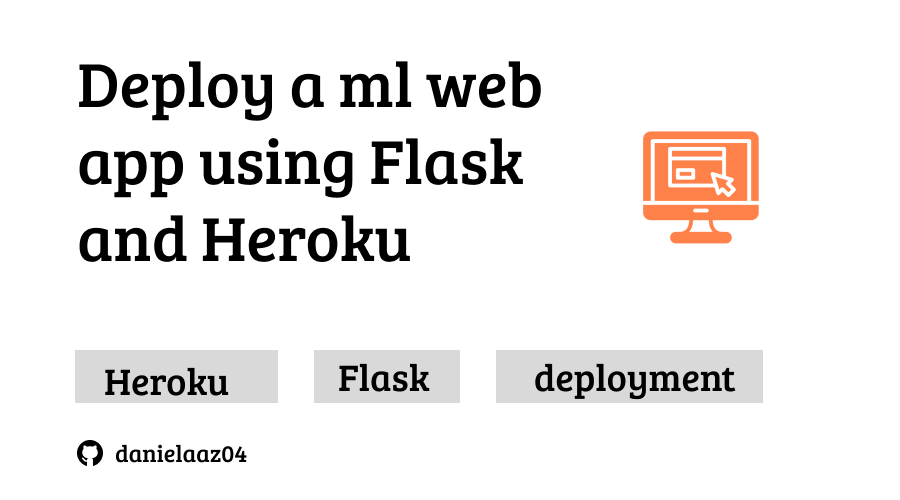
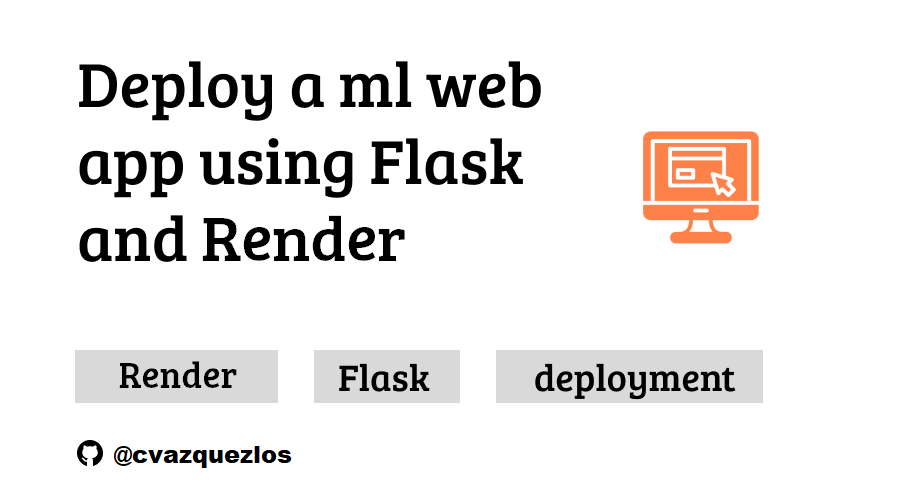
Project content review

Changed region(s): [[0.2178, 0.42, 0.4667, 0.54], [0.0933, 0.72, 0.28, 0.81], [0.1244, 0.87, 0.3422, 0.93]]

diff --git a/README.es.md b/README.es.md
@@ -1,38 +1,38 @@
 <!-- hide -->
-# Aplicación web de Machine Learning con Flask 
+# Integración de un modelo de ML en Render usando Flask - Guía paso a paso
 <!-- endhide -->
 
-- En este proyecto crearemos una aplicación web de Machine Learning. ¡Para hacer uno hermoso, eres libre de elegir el mejor modelo entre todos tus proyectos anteriores y aplicar tus nuevas habilidades de **Flask**!  
+- Buscar y comprender un dataset nuevo.
+- Modelar los datos utilizando un algoritmo de Machine Learning, Deep Learning o NLP.
+- Analizar los resultados y optimizar el modelo.
+- Integrarlo en Render usando una aplicación basada en Flask.
 
-> ¡No te olvides de ser siempre ingenioso!
+## 🌱  Cómo iniciar este proyecto
 
-## 🌱 Cómo iniciar este proyecto
+Esta vez no se hará Fork, tómate un tiempo para leer estas instrucciones:
 
-1. Crea un nuevo repositorio basado en el [proyecto de machine learning](https://github.com/4GeeksAcademy/machine-learning-python-template/generate) haciendo [clic aquí](https://github.com/4GeeksAcademy/machine-learning-python-template).
-2. Abre el repositorio creado recientemente en Gitpod usando la [extensión del botón de Gitpod](https://www.gitpod.io/docs/browser-extension/).
-
-3. Una vez que Gitpod VSCode haya terminado de abrir, comienza tu proyecto siguiendo las instrucciones a continuación.
+1. Crear un nuevo repositorio basado en el [proyecto de Machine Learing](https://github.com/4GeeksAcademy/machine-learning-python-template/generate) [haciendo clic aquí](https://github.com/4GeeksAcademy/machine-learning-python-template).
+2. Abre el repositorio creado recientemente en Codespace usando la [extensión del botón de Codespace](https://docs.github.com/en/codespaces/developing-in-codespaces/creating-a-codespace-for-a-repository#creating-a-codespace-for-a-repository).
+3. Una vez que el VSCode del Codespace haya terminado de abrirse, comienza tu proyecto siguiendo las instrucciones a continuación.
 
 ## 🚛 Cómo entregar este proyecto
 
-Una vez que hayas terminado de implementar tu aplicación de flask, asegúrate de hacerle commit tus cambios, hazle push a tu repositorio y ve a 4Geeks.com para cargar el enlace de la aplicación web.
+Una vez que hayas terminado de resolver los ejercicios, asegúrate de confirmar tus cambios, hazle "push" al fork de tu repositorio y ve a 4Geeks.com para subir el enlace del repositorio.
 
 ## 📝 Instrucciones
 
-**Paso 1:**
+### Paso 1: Busca un conjunto de datos
 
-Ahora que has aprendido cómo debería verse su estructura final, agrega los archivos necesarios a la carpeta del proyecto actual para tener la estructura correcta y edita los necesarios.
+Investiga en las diferentes fuentes en línea sobre distintos datasets que podrías utilizar para entrenar un modelo. Puedes utilizar alguna API pública, el repositorio UCI para Machine Learning o el apartado de Kaggle de [conjuntos de datos](https://www.kaggle.com/datasets), entre otras muchas fuentes. Recuerda buscar un conjunto de datos simple ya que este no es el proyecto final del curso.
 
-**Paso 2:**
+### Paso 2: Desarrolla un modelo
 
-Nuevamente, usa el archivo .pkl (modelo) de tu proyecto preferido y crea tu aplicación web de Machine Learning. Esta vez, muestra tus nuevas habilidades con Streamlit para crear una hermosa aplicación web.
+Una vez hayas encontrado tu conjunto de datos ideal, analízalo y entrena un modelo. Optimízalo si fuera necesario.
 
-**Step 2:**
+### Paso 3: Desarrolla una aplicación web usando Flask
 
-Utiliza el archivo .pkl (modelo) del proyecto de tu preferencia para crear una aplicación web de Machine Learning. Por ejemplo, si estás utilizando el modelo Titanic, deberías solicitar ciertas características del pasajero y predecir si ese pasajero sobreviviría o no.
+Con los conocimientos adquiridos en este módulo, desarrolla una interfaz para poder utilizar el modelo. Dale el estilo que más te convenga y anota los recursos externos que hayas utilizado para el desarrollo.
 
-**Paso 3:**
+### Paso 4: Integra el modelo y la aplicación en Render
 
-¡Implementa tu aplicación en Heroku!
-
-> Usa tu lección [Modelo deploy usando Streamlit y Heroku](https://github.com/4GeeksAcademy/machine-learning-content/blob/master/07-4d-ml_deploy/deploy-model-using-streamlit-and-heroku.md) para guiarte en cada paso.
+Crea un servicio gratuito en Render e integra el trabajo que has hecho para poder desplegar la aplicación web en línea. No olvides de incluir el enlace al servicio en tu repositorio.

diff --git a/README.md b/README.md
@@ -1,37 +1,38 @@
 <!-- hide -->
-# Machine learning web app using Flask
+# Integration of a ML model in Render using Flask - Step-by-step guide
 <!-- endhide -->
 
-- In this project, we will create a machine learning web application. To do a beautiful one, you are free to choose the best model between all your previous projects, and apply your new **Flask** skills!  
-
-> Don't forget to always be resourceful!
+- Search and understand a new dataset.
+- Model the data using a Machine Learning, Deep Learning or NLP algorithm.
+- Analyze the results and optimize the model.
+- Integrate it into Render using a Flask-based application.
 
 ## 🌱  How to start this project
 
 You will not be forking this time, please take some time to read these instructions:
 
-1. Create a new repository based on a [machine learning project](https://github.com/4GeeksAcademy/machine-learning-python-template/generate) by [clicking here](https://github.com/4GeeksAcademy/machine-learning-python-template).
-2. Open the recently created repository on Gitpod by using the [Gitpod button extension](https://www.gitpod.io/docs/browser-extension/).
-3. Once Gitpod VSCode has finished opening, you start your project following the Instructions below.
+1. Create a new repository based on [machine learning project](https://github.com/4GeeksAcademy/machine-learning-python-template/generate) by [clicking here](https://github.com/4GeeksAcademy/machine-learning-python-template).
+2. Open the newly created repository in Codespace using the [Codespace button extension](https://docs.github.com/en/codespaces/developing-in-codespaces/creating-a-codespace-for-a-repository#creating-a-codespace-for-a-repository).
+3. Once the Codespace VSCode has finished opening, start your project by following the instructions below.
 
 ## 🚛 How to deliver this project
 
-Once you are finished deploying your flask app, make sure to commit your changes, push to your repository and go to 4Geeks.com to upload the web application link.
+Once you are finished creating your linear regression model, make sure to commit your changes, push to your repository and go to 4Geeks.com to upload the repository link.
 
 ## 📝 Instructions
 
-**Step 1:**
+### Step 1: Find a dataset
 
-Now that you have learned what your final structure should look like, add the necessary files to the current project folder in order to have the correct structure, and edit the necessary ones.
+Research different online sources about different datasets that you could use to train a model. You can use some public API, the UCI repository for Machine Learning or the Kaggle section of [datasets](https://www.kaggle.com/datasets), among many other sources. Remember to look for a simple dataset as this is not the final project of the course.
 
-**Step 2:**
+### Step 2: Develop a model
 
-Use the .pkl file (model) from the project of your preference to build a machine learning web application.
-For example, if you are using the Titanic model, it should request certain passenger features and predict if that passenger would survive or not. 
+Once you have found your ideal data set, analyze it and train a model. Optimize it if necessary.
 
-**Step 3:**
+### Step 3: Develop a web application using Flask
 
-Deploy your app to Heroku!
+With the knowledge acquired in this module, develop an interface to be able to use the model. Give it the style that suits you best and note the external resources you have used for the development.
 
->Use your [Deploy model using Flask and Heroku](https://github.com/4GeeksAcademy/machine-learning-content/blob/master/07-4d-ml_deploy/deploy-model-using-flask-and-heroku.md) lesson to guide you on every step.
+### Step 4: Integrate the model and the application in Render
 
+Create a free service in Render and integrate the work you have done to be able to deploy the web application online. Don't forget to include the link to the service in your repository.
